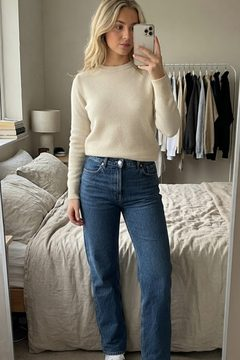
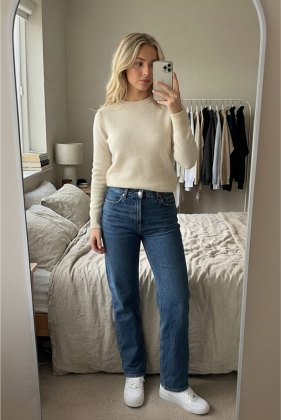
Virtual Stylist intro: one final design (Figma 15921-1329), layout options retired; Jake's example photo; catalogue + changelog

diff --git a/assets/ds/vs-intro.js b/assets/ds/vs-intro.js
@@ -1,66 +1,32 @@
-/* DG Group Design System — Virtual Stylist intro (2 Nov 2026, vto-prototype v2).
-   The launch modal for Virtual Stylist (virtual try-on), on the DS .mdl: How it works (.howto, three numbered steps) · Photo tips (.ptips, 2 × 2) ·
-   the 18+ consent row (DS checkbox .chk in .chk-row, centred on the copy, + .vs-legal; Camera / Upload need it ticked: unticked they show .vs-warn, as live) · Camera / Upload
-   (.bd pri .ic20 with the library glyphs, side by side, as v1) · the try-on note (.vs-note). Slide up (.mdl--up) on phones, centred .mdl--md from 600px; six start screen layouts (o.layout, below).
-     DG_vsIntro.html(o)   → the .mdl only (catalogue, Figma)       o = {fascia:'Debenhams', desk:bool, left:5|n, consent:bool, layout:'1'..'10' (default '6'), photo:url (layout 9 example, default assets/ds/img/vs-example.jpg)}
+/* DG Group Design System — Virtual Stylist intro (2 Nov 2026, vto-prototype v2; final design Jake 9 Nov, Figma LxHqA4rFpRYNWJu8vzn18X 15921-1329).
+   The launch modal for Virtual Stylist (virtual try-on), on the DS .mdl: Welcome to Virtual Stylist + one intro line (.vs-lede) · an example photo
+   (.vs-eg-img, 2:3, tilted 2deg) beside "For the best results..." and four icon tips (.vs-tips, plain text: never bordered or filled, so they don't read as buttons) ·
+   the 18+ consent row (DS checkbox .chk in .chk-row, centred on the copy, + .vs-legal; Camera / Upload need it ticked: unticked they show .vs-warn, as live) ·
+   Camera / Upload (.bd pri .ic20 with the library glyphs, side by side) · the try-on note (.vs-note). Slide up (.mdl--up) on phones, centred .mdl--md from 600px.
+     DG_vsIntro.html(o)   → the .mdl only (catalogue, Figma)       o = {fascia:'Debenhams', desk:bool, left:5|n, consent:bool, photo:url (default assets/ds/img/vs-example.jpg)}
      DG_vsIntro.layer(o)  → scrim + .mdl in a fixed .vs-layer (pages)
      DG_vsIntro.wire(root, {onCamera, onUpload, onClose, onConsent}) → binds the X, scrim, consent row and the two buttons
    Copy is instructional; no emojis, no em dashes. */
 (function(root){
   const esc=s=>String(s==null?'':s).replace(/[&<>"]/g,m=>({'&':'&amp;','<':'&lt;','>':'&gt;','"':'&quot;'}[m]));
-    /* button glyphs: DS library icons-camera / icons-image, inline so they take the label colour (.bd .ico) */
+  /* button glyphs: DS library icons-camera / icons-image, inline so they take the label colour (.bd .ico) */
   const CAM='<svg class="ico" viewBox="0 0 24 24" fill="none" aria-hidden="true"><g transform="translate(0.3572 2.9285)"><path d="M22.7857 5.64286C22.7857 5.18819 22.605 4.75217 22.2836 4.43067C21.9622 4.10919 21.5261 3.92857 21.0714 3.92857H17.6429L15.0714 0.5H8.21429L5.64286 3.92857H2.21429C1.75962 3.92857 1.32359 4.10919 1.0021 4.43067C0.680612 4.75217 0.5 5.18819 0.5 5.64286V15.9286C0.5 16.3832 0.680612 16.8193 1.0021 17.1407C1.32359 17.4622 1.75962 17.6429 2.21429 17.6429H21.0714C21.5261 17.6429 21.9622 17.4622 22.2836 17.1407C22.605 16.8193 22.7857 16.3832 22.7857 15.9286V5.64286Z" stroke-linecap="round" stroke-linejoin="round"/><path d="M11.6429 13.7857C13.7731 13.7857 15.5 12.0588 15.5 9.92857C15.5 7.79833 13.7731 6.07143 11.6429 6.07143C9.51262 6.07143 7.78571 7.79833 7.78571 9.92857C7.78571 12.0588 9.51262 13.7857 11.6429 13.7857Z" stroke-linecap="round" stroke-linejoin="round"/></g></svg>';
   const UPL='<svg class="ico" viewBox="0 0 24 24" fill="none" aria-hidden="true"><g transform="translate(2 2)"><rect x="0.5" y="0.5" width="19" height="19" rx="3.5" stroke="currentColor"/><path d="M15 19L5.38378 9.67506C4.99589 9.29892 4.37937 9.29892 3.99148 9.67506L1.43109 12.1579L0.588967 13" stroke="currentColor" stroke-linecap="round"/><circle cx="14.5" cy="5.5" r="2" stroke="currentColor"/></g></svg>';   /* Upload = icons-image (Jake's Figma 15874-1068) */
   const note=n=>(n==null||n>=5?'Max 5 try-ons per day.':n+' try-on'+(n===1?'':'s')+' left today.')+' Images are generated by AI';
-    /* start screen layouts (Jake's final six, Figma LxHqA4rFpRYNWJu8vzn18X 15898-33012, 3 Nov 2026): o.layout '1'..'6', default '6' (Jake, 3 Nov).
-     steps 'cards' = 2 × 2 numbered step cards (four steps) | 'timeline' = numbered timeline (three steps, title + line, glyph right) ·
-     tips 'cards' = 2 × 2 tiles | 'pills' = wrapping pills · align = section headings centred or left · welcome = title "Welcome to Virtual Stylist", no How it works heading.
-     Slide up (.mdl--up) on phones, hugging the content; centred .mdl--md from 600px; every line of copy 12/16 minimum. */
-  const LAYOUTS={
-    '1':{label:'Step cards + pills',steps:'cards',tips:'pills',align:'left'},
-    '2':{label:'Step cards + tip cards, centred',steps:'cards',tips:'cards',align:'centre'},
-    '3':{label:'Timeline + tip cards, centred',steps:'timeline',tips:'cards',align:'centre'},
-    '4':{label:'Timeline + tip cards',steps:'timeline',tips:'cards',align:'left'},
-    '5':{label:'Timeline + pills',steps:'timeline',tips:'pills',align:'left'},
-    '6':{label:'Welcome, timeline + pills',steps:'timeline',tips:'pills',align:'left',welcome:true},
-    /* short layouts (Jake, 9 Nov: the screen was too long and the pills looked tappable). One intro line or three one-line steps,
-       tips as plain text (a tick list or a single line): no borders, no fills, nothing that reads as a button. */
-    '7':{label:'Short: three steps + tip line',short:['steps','tip']},
-    '8':{label:'Short: intro + tick list',short:['lede','checks']},
-    '9':{label:'Short: intro + example photo',short:['lede','example']},
-    '10':{label:'Shortest: intro + tip line',short:['lede','tip']}};
-  /* short layout copy (ux-writing: front-loaded, sentence case, under 14 words a line) */
-  const LEDE='Add a full-length photo to see this on you.';
-  const STEPS3=['Add a full-length photo','We style you in this piece','Pick your size and add to bag'];
-  const TIPLINE='Get your whole body in shot. Mirror selfies work.';
-  const CHECKS=['Head to toe in shot','Plain background','Good light','Mirror selfies work'];
-  const CARDS=[['add-photo','Take or upload a photo'],['ai','We\u2019ll style you in your selected piece'],['hanger','Check and decide if it\u2019s right for you'],['quick-add','Pick your size and add to bag']];
-  const TL=[['add-photo','Add a photo','Take or upload any full length photo'],['ai','Check the look','We\u2019ll style you in your selected piece'],['quick-add','Add To Bag','Choose your size and add it to your bag']];
-  const TIP={light:['light','Use bright lighting'],dress:['dress','Use a full length photo'],plain:['plain','Use a plain background'],face:['face','Face the camera']};
-  const TIPS_ORDER={cards:['light','dress','plain','face'],pills:['plain','light','face','dress']};   /* as the Figma */
+  /* copy: Jake's Figma 15921-1329 */
+  const TITLE='Welcome to Virtual Stylist',LEDE='Take or upload a photo to see yourself in this product.',TIPS_H='For the best results...';
+  const TIPS=[['light','Use bright lighting'],['face','Face the camera'],['dress','Use a full length photo'],['mirror','Mirror selfies are OK!']];
   const vsi=i=>`<i class="vsi vsi--${i}" aria-hidden="true"></i>`;
-  const H=t=>`<h3 class="vs-sec-h">${t}</h3>`;
-  const stepsHTML=(k,head)=>`<section class="vs-sec">${head?H('How it works'):''}${k==='timeline'
-    ?`<ol class="vs-tl">${TL.map(([i,t,d],n)=>`<li><span class="n">${n+1}</span><div class="tx"><b>${t}</b><span>${d}</span></div>${vsi(i)}</li>`).join('')}</ol>`
-    :`<ol class="howto">${CARDS.map(([i,t],n)=>`<li><span class="n">${n+1}</span>${vsi(i)}<span>${t}</span></li>`).join('')}</ol>`}</section>`;
-  const tipsHTML=k=>`<section class="vs-sec">${H('For the best result')}<ul class="${k==='pills'?'vs-chips':'ptips'}">${TIPS_ORDER[k].map(t=>TIP[t]).map(([i,t])=>`<li>${vsi(i)}<span>${t}</span></li>`).join('')}</ul></section>`;
-  const TIPS=TIPS_ORDER.cards.map(t=>TIP[t]),STEPS=CARDS;
-  const checks=()=>`<ul class="vs-checks">${CHECKS.map(t=>`<li>${vsi('tick')}<span>${t}</span></li>`).join('')}</ul>`;
-  const SHORT={
-    lede:()=>`<p class="vs-lede">${LEDE}</p>`,
-    steps:()=>`<ol class="vs-steps">${STEPS3.map((t,n)=>`<li><span class="n">${n+1}</span><span>${t}</span></li>`).join('')}</ol>`,
-    tip:()=>`<p class="vs-tip">${vsi('light')}<span>${TIPLINE}</span></p>`,
-    checks:()=>`<section class="vs-sec">${H('For the best result')}${checks()}</section>`,
-    example:o=>`<div class="vs-eg"><div class="vs-eg-img" role="img" aria-label="Example: a full-length mirror selfie"${o.photo?` style="background-image:url('${esc(o.photo)}')"`:''}></div><div class="vs-sec">${H('For the best result')}${checks()}</div></div>`};
   const consentRow=o=>`<div class="chk-row vs-consent" data-vs-consent role="checkbox" aria-checked="${o.consent?'true':'false'}" tabindex="0">
           <button class="chk${o.consent?' on':''}" tabindex="-1" aria-hidden="true"></button>
           <p class="vs-legal">I'm 18 or over and consent to my photo being processed by ${esc(o.fascia||'Debenhams')} and its AI providers to create my virtual try-on. I accept the <a href="#" data-vs-link>Terms &amp; Conditions</a> and <a href="#" data-vs-link>Privacy Policy</a>.</p>
         </div><p class="vs-warn" data-vs-warn role="alert" hidden>Please tick the box above to continue</p>`;   /* live copy (debenhams.com, 3 Nov 2026) */
-  function html(o){o=o||{};const k=LAYOUTS[o.layout]?String(o.layout):'6',L=LAYOUTS[k];
-    const cls=L.short?'vs-intro--short vs-intro--left':`vs-intro--steps-${L.steps} vs-intro--tips-${L.tips} vs-intro--${L.align}${L.welcome?' vs-intro--welcome':''}`;
-    return `<div class="mdl ${o.desk?'mdl--md':'mdl--up'} vs-intro vs-intro--l${k} ${cls}" role="dialog" aria-modal="true" aria-labelledby="vs-intro-t">
-      <div class="modal-hd"><span class="mt" id="vs-intro-t">${L.welcome?'Welcome to Virtual Stylist':'Virtual Stylist'}</span><button class="modal-x" data-vs-close aria-label="Close"></button></div>
-      <div class="mdl-bd">${L.short?L.short.map(p=>SHORT[p](o)).join(''):stepsHTML(L.steps,!L.welcome)+tipsHTML(L.tips)}</div>
+  function html(o){o=o||{};
+    return `<div class="mdl ${o.desk?'mdl--md':'mdl--up'} vs-intro" role="dialog" aria-modal="true" aria-labelledby="vs-intro-t">
+      <div class="modal-hd"><span class="mt" id="vs-intro-t">${TITLE}</span><button class="modal-x" data-vs-close aria-label="Close"></button></div>
+      <div class="mdl-bd"><p class="vs-lede">${LEDE}</p>
+        <div class="vs-eg"><div class="vs-eg-img" role="img" aria-label="Example: a full-length mirror selfie"${o.photo?` style="background-image:url('${esc(o.photo)}')"`:''}></div>
+          <div class="vs-eg-tx"><h3 class="vs-eg-h">${TIPS_H}</h3><ul class="vs-tips">${TIPS.map(([i,t])=>`<li>${vsi(i)}<span>${t}</span></li>`).join('')}</ul></div></div></div>
       <div class="mdl-ft">${consentRow(o)}<div class="vs-ctas"><button class="bd pri ic20" data-vs-camera>${CAM}Camera</button><button class="bd pri ic20" data-vs-upload>${UPL}Upload</button></div><p class="vs-note" data-vs-note>${note(o.left)}</p></div>
     </div>`}
   const layer=o=>`<div class="vs-layer${o&&o.desk?'':' vs-layer--up'}" data-vs-intro><div class="mdl-scrim" data-vs-close></div>${html(o)}</div>`;
@@ -74,5 +40,5 @@
     const c=el.querySelector('[data-vs-camera]'),u=el.querySelector('[data-vs-upload]');
     const go=f=>()=>{if(!ok()){if(warn)warn.hidden=false;return}f&&f()};   /* as live: unticked, the buttons show the warning instead */
     if(c)c.onclick=go(h.onCamera);if(u)u.onclick=go(h.onUpload)}
-  root.DG_vsIntro={html,layer,wire,note,STEPS,TIPS,LAYOUTS};
+  root.DG_vsIntro={html,layer,wire,note,TIPS};
 })(typeof window!=='undefined'?window:globalThis);

diff --git a/assets/ds/components.css b/assets/ds/components.css
@@ -2169,60 +2169,23 @@ select.rf-input:invalid{color:var(--rf-dim)}
 .ratio-product>img{width:100%;height:100%;object-fit:cover;display:block}
 
 /* ---- Virtual Stylist intro (2 Nov 2026, vto-prototype v2; assets/ds/vs-intro.js): the launch modal on the DS .mdl in a .vs-layer (the delivery / S&S layer rules).
-   Spec: Jake's final six start screens, Figma LxHqA4rFpRYNWJu8vzn18X 15898-33012 (3 Nov 2026). Slide up (.vs-layer--up + .mdl--up, hugging the content) on phones,
-   centred .mdl--md from 600px. Header: title 20/25 strong + 16 close · body: How it works then For the best result, gap 8 (32px; 6, 24px, with a headed timeline) ·
-   footer gap 4 (16px): consent (.chk-row, box centred on the copy, gap 3 + .vs-legal 12/16 --text-primary, links --text-link strong, no underline) ·
-   Camera / Upload: two .bd pri .ic20 side by side (as v1; Jake 2 Nov) · .vs-note 12/16 grey.
-   How it works: .howto 2 × 2 step cards (four steps) or .vs-tl timeline (three) · tips: .ptips 2 × 2 tiles or .vs-chips pills · headings centred or --left.
-   Glyphs are DS library icons, masked so they take --icon-primary. Every line of copy 12/16 or larger. */
-.vs-intro .mdl-bd{gap:var(--gap-8,32px)}
-.vs-intro--steps-timeline:not(.vs-intro--welcome) .mdl-bd{gap:var(--gap-6,24px)}
+   Final design: Jake's Figma LxHqA4rFpRYNWJu8vzn18X 15921-1329 (9 Nov 2026). Slide up (.vs-layer--up + .mdl--up, hugging the content) on phones, centred .mdl--md from 600px.
+   Header: Welcome to Virtual Stylist 20/25 strong + 16 close · .vs-lede 14/20, 16 under the title · gap 6 (24px) · .vs-eg: example photo 94 wide 2:3, radius --radius-lg,
+   --shadow-pill, tilted 2deg | gap 6 | "For the best results..." 14/20 strong, gap 3, four tips (16 glyph, gap 2, 14/16 regular, gap 3 apart: plain text, never a pill or a tile) ·
+   gap 6 · footer gap 4 (16px): consent (.chk-row + .vs-legal 12/16, links --text-link strong) · Camera / Upload (.bd pri .ic20, side by side) · .vs-note 12/16 grey.
+   Glyphs are DS library icons, masked so they take --icon-primary. */
+.vs-intro .modal-hd{margin-bottom:calc(-1 * var(--gap-2,8px))}   /* title to intro line 16 */
+.vs-intro .mdl-bd{gap:var(--gap-6,24px);padding-bottom:12px;margin-bottom:-12px}   /* room for the photo shadow inside the scrolling body */
 .vs-intro .mdl-ft{gap:var(--gap-4,16px)}
-.vs-sec{display:flex;flex-direction:column;gap:var(--gap-3,12px)}
-.vs-sec-h{margin:0;font-family:var(--font-family-base);font-size:16px;line-height:20px;font-weight:var(--w-strong,600);color:var(--text-primary);text-align:center}
-.vs-intro--left .vs-sec-h{text-align:left}
-/* step cards: 2 × 2, the number straddling the top edge */
-.howto{display:grid;grid-template-columns:repeat(2,minmax(0,1fr));gap:var(--gap-6,24px) var(--gap-2,8px);list-style:none;margin:0;padding:var(--gap-3,12px) 0 0}
-.howto li{position:relative;display:flex;flex-direction:column;align-items:center;gap:var(--gap-2,8px);padding:28px var(--gap-4,16px) var(--gap-4,16px);border-radius:var(--radius-lg);background:var(--surface-sunken);text-align:center;font-size:14px;line-height:18px;font-weight:var(--w-regular);color:var(--text-primary)}
-.howto .n{position:absolute;top:-12px;left:50%;transform:translateX(-50%);width:24px;height:24px;border-radius:var(--radius-pill);background:var(--surface-action);color:var(--text-on-action);display:grid;place-items:center;font-size:12px;line-height:1;font-weight:var(--w-strong,600)}
-.howto .vsi{width:24px;height:24px}
-/* timeline: number on a line, title + line, glyph right */
-.vs-tl{list-style:none;margin:0;padding:0;display:flex;flex-direction:column}
-.vs-intro--welcome .vs-tl{margin:calc(-1 * var(--gap-3,12px)) 0}   /* no heading: the first and last rows sit flush */
-.vs-tl li{position:relative;display:flex;align-items:center;gap:var(--gap-4,16px);padding:var(--gap-3,12px) 0}
-.vs-tl li:not(:last-child)::after{content:"";position:absolute;left:12px;top:calc(50% + 16px);height:calc(100% - 32px);border-left:1px solid var(--border-default)}
-.vs-tl .n{width:24px;height:24px;flex:none;border-radius:var(--radius-pill);background:var(--surface-action);color:var(--text-on-action);display:grid;place-items:center;font-size:12px;line-height:1;font-weight:var(--w-strong,600)}
-.vs-tl .tx{flex:1;display:flex;flex-direction:column;gap:2px;min-width:0}
-.vs-tl b{font-size:14px;line-height:20px;font-weight:var(--w-strong,600);color:var(--text-primary)}
-.vs-tl .tx span{font-size:12px;line-height:16px;font-weight:var(--w-regular);color:var(--text-primary)}
-.vs-tl .vsi{width:24px;height:24px}
-/* tip tiles: 2 × 2 */
-.ptips{display:grid;grid-template-columns:repeat(2,minmax(0,1fr));gap:var(--gap-2,8px);list-style:none;margin:0;padding:0}
-.ptips li{display:flex;align-items:center;gap:var(--gap-3,12px);min-height:56px;box-sizing:border-box;padding:var(--gap-3,12px);border-radius:var(--radius-lg);background:var(--surface-sunken);font-size:12px;line-height:16px;font-weight:var(--w-regular);color:var(--text-primary)}
-.ptips .vsi{width:20px;height:20px}
-/* tip pills: wrapping, 1px --border-subtle */
-.vs-chips{list-style:none;margin:0;padding:0;display:flex;flex-wrap:wrap;justify-content:center;gap:var(--gap-2,8px) var(--gap-1,4px)}
-.vs-intro--left .vs-chips{justify-content:flex-start}
-.vs-chips li{display:flex;align-items:center;gap:var(--gap-2,8px);padding:var(--gap-2,8px) var(--gap-3,12px);border:1px solid var(--border-subtle);border-radius:var(--radius-pill);font-size:12px;line-height:16px;font-weight:var(--w-regular);color:var(--text-primary)}
-.vs-chips .vsi{width:16px;height:16px}
-.vsi{display:block;flex:none;background:var(--icon-primary);-webkit-mask:var(--ic) center/contain no-repeat;mask:var(--ic) center/contain no-repeat}
-.vsi--add-photo{--ic:url("icons/lib/icons-add-photo.svg")}.vsi--ai{--ic:url("icons/lib/icons-ai.svg")}.vsi--hanger{--ic:url("icons/lib/icons-hanger.svg")}.vsi--quick-add{--ic:url("icons/lib/icons-quick-add.svg")}
-.vsi--tick{--ic:url("icons/lib/icons-tick.svg")}
-/* short layouts 7-10 (9 Nov): one intro line or three one-line steps, tips as plain text. Nothing that reads as a button: no borders, no fills */
-.vs-intro--short .mdl-bd{gap:var(--gap-5,20px)}
 .vs-lede{margin:0;font-size:14px;line-height:20px;font-weight:var(--w-regular);color:var(--text-primary)}
-.vs-steps{list-style:none;margin:0;padding:0;display:flex;flex-direction:column;gap:var(--gap-3,12px)}
-.vs-steps li{display:flex;align-items:center;gap:var(--gap-3,12px);font-size:14px;line-height:20px;font-weight:var(--w-regular);color:var(--text-primary)}
-.vs-steps .n{width:24px;height:24px;flex:none;border-radius:var(--radius-pill);background:var(--surface-action);color:var(--text-on-action);display:grid;place-items:center;font-size:12px;line-height:1;font-weight:var(--w-strong,600)}
-.vs-tip{margin:0;display:flex;align-items:flex-start;gap:var(--gap-2,8px);font-size:12px;line-height:16px;font-weight:var(--w-regular);color:var(--text-secondary)}
-.vs-tip .vsi{width:16px;height:16px;background:var(--text-secondary)}
-.vs-checks{list-style:none;margin:0;padding:0;display:grid;grid-template-columns:repeat(2,minmax(0,1fr));gap:var(--gap-2,8px) var(--gap-4,16px)}
-.vs-checks li{display:flex;align-items:center;gap:var(--gap-2,8px);font-size:14px;line-height:20px;font-weight:var(--w-regular);color:var(--text-primary)}
-.vs-checks .vsi{width:16px;height:16px}
-.vs-eg{display:flex;align-items:center;gap:var(--gap-4,16px)}
-.vs-eg-img{width:80px;aspect-ratio:2/3;flex:none;border-radius:var(--radius-lg);background:var(--surface-media,var(--surface-sunken)) url("img/vs-example.jpg") center/cover no-repeat}
-.vs-eg .vs-sec{flex:1;min-width:0}.vs-eg .vs-checks{grid-template-columns:1fr}
-.vsi--light{--ic:url("icons/lib/icons-light-bulb.svg")}.vsi--dress{--ic:url("icons/lib/icons-dress.svg")}.vsi--face{--ic:url("icons/lib/icons-account.svg")}.vsi--plain{--ic:url("icons/lib/icons-image.svg")}
+.vs-eg{display:flex;align-items:center;gap:28px}   /* Figma 23 from the tilted photo’s bounding box */
+.vs-eg-img{height:140px;aspect-ratio:2/3;flex:none;border-radius:var(--radius-lg);box-shadow:var(--shadow-pill);transform:rotate(-2deg);background:var(--surface-media,#F2F2F2) url("img/vs-example.jpg") center/cover no-repeat}
+.vs-eg-tx{flex:1;min-width:0;display:flex;flex-direction:column;gap:var(--gap-3,12px);padding-bottom:var(--gap-1,4px)}
+.vs-eg-h{margin:0;font-family:var(--font-family-base);font-size:14px;line-height:20px;font-weight:var(--w-strong,600);color:var(--text-primary)}
+.vs-tips{list-style:none;margin:0;padding:0;display:flex;flex-direction:column;gap:var(--gap-3,12px)}
+.vs-tips li{display:flex;align-items:center;gap:var(--gap-2,8px);font-size:14px;line-height:16px;font-weight:var(--w-regular);color:var(--text-primary)}
+.vsi{display:block;flex:none;width:16px;height:16px;background:var(--icon-primary);-webkit-mask:var(--ic) center/contain no-repeat;mask:var(--ic) center/contain no-repeat}
+.vsi--light{--ic:url("icons/lib/icons-light-bulb.svg")}.vsi--face{--ic:url("icons/lib/icons-account.svg")}.vsi--dress{--ic:url("icons/lib/icons-dress.svg")}.vsi--mirror{--ic:url("icons/lib/icons-app.svg")}
 .vs-consent{gap:var(--gap-3,12px);cursor:pointer;-webkit-tap-highlight-color:transparent}   /* the whole row toggles; only the links are exempt */
 .vs-legal{margin:0;flex:1;font-size:12px;line-height:16px;font-weight:var(--w-regular);color:var(--text-primary)}
 .vs-legal a{color:var(--text-link);font-weight:var(--w-strong,600);text-decoration:none}

diff --git a/assets/ds/catalogue.js b/assets/ds/catalogue.js
@@ -876,15 +876,15 @@ const DG_CATALOGUE = [
   ],
   dev:{title:'—', status:'ours', note:'Google Cloud Shopping Agent widget; styling delivered as salesAgentConfig.json (projects/shopping-agent HANDOFF.md section 3 maps each part to its key).'} },
 
-{ slug:'vs-intro', name:'Virtual Stylist intro', group:'AI', tier:'organism', css:'.vs-layer · .vs-intro on the DS .mdl · .howto · .vs-tl · .ptips · .vs-chips · .vsi · .vs-consent + .vs-legal · .vs-ctas · .vs-note (+ assets/ds/vs-intro.js)', figma:'LxHqA4rFpRYNWJu8vzn18X · start screen layouts 15898-33012 (Jake, 3 Nov: the six final options)',
-  summary:'The Virtual Stylist (virtual try-on) start screen: how it works, photo tips, the 18+ consent row, then Camera / Upload and the daily try-on note. Slide up on phones, hugging the content; centred from 600px. Six layouts (o.layout 1 to 6): step cards or a timeline, tip cards or pills, headings centred or left, and a Welcome version.',
-  use:['Drop-in: load assets/ds/vs-intro.js; DG_vsIntro.layer({fascia,desk:innerWidth>=600,left,consent,layout}) into the body, then DG_vsIntro.wire(el,{onCamera,onUpload,onClose,onConsent}).','Opened by the PDP Virtual Stylist chip (AI pill, .ai-pill--tag). Slide up (.vs-layer--up + .mdl--up) on phones: the sheet hugs its content and the body scrolls if it runs out of height; centred .mdl--md from 600px.','Layouts (DG_vsIntro.LAYOUTS): 1 step cards + pills · 2 step cards + tip cards, centred · 3 timeline + tip cards, centred · 4 timeline + tip cards · 5 timeline + pills · 6 Welcome to Virtual Stylist, timeline (no heading) + pills: the default (Jake, 3 Nov). Short (9 Nov: the screen was too long, the pills looked tappable): 7 three one-line steps + tip line · 8 intro + tick list · 9 intro + example photo beside the tick list · 10 intro + tip line.','Consent: the whole row toggles (links excepted). Camera / Upload need it ticked: tapped unticked, they show .vs-warn (Please tick the box above to continue) and do nothing, as live (debenhams.com, 3 Nov 2026).'],
-  avoid:['Stacking Camera and Upload: they sit side by side, both filled, as the live journey (Jake, 2 Nov: an agreed exception to one primary per view).','Marketing copy in the steps or tips: they are instructions.','Copy under 12/16 (the T&Cs size): Jake, 3 Nov 2026.','Naming the AI provider or a model in the legal copy: the fascia and its AI providers.'],
-  anatomy:['Modal header: title 20/25 strong (Virtual Stylist, or Welcome to Virtual Stylist on layout 6) + 16px close · body gap 8 (32px), gap 6 (24px) with a headed timeline · footer gap 4 (16px)','Section heading .vs-sec-h 16/20 strong, centred or left (.vs-intro--left) · gap 3 (12px) to its content','Step cards .howto: 2 × 2, gap 6 (24px) rows (clears the number) / 2 (8px) columns · card --surface-sunken, radius --radius-lg, padding 28 / 16 / 16 · number 24px --surface-action / --text-on-action straddling the top edge · glyph 24 · copy 14/18 regular, centred · four steps: add-photo, ai, hanger, quick-add','Timeline .vs-tl: rows padding gap 3 (12px), gap 4 (16px) · number 24px on a 1px --border-default line · title 14/20 strong + line 12/16 regular · glyph 24 right · three steps: add-photo, ai, quick-add','Tip tiles .ptips: 2 × 2, gap 2 (8px) · tile --surface-sunken, radius --radius-lg, padding gap 3, 56 tall · glyph 20, gap 3 to copy 12/16','Tip pills .vs-chips: wrapping, gap 2 (8px) rows / 1 (4px) between · 1px --border-subtle, --radius-pill, padding 8 / 12 · glyph 16, gap 2 to copy 12/16','Consent .chk-row: DS checkbox centred on the copy, gap 3 (12px) + .vs-legal 12/16 --text-primary, links --text-link in --w-strong, no underline · .vs-warn 12/16 --text-error under the copy','Short layouts (.vs-intro--short, body gap 5, 20px): .vs-lede 14/20 · .vs-steps one-line rows (24px number, gap 3, 14/20) · .vs-tip light-bulb 16 + 12/16 grey · .vs-checks tick 16 + 14/20, 2 columns (1 beside the photo) · .vs-eg 80px 2:3 example photo (assets/ds/img/vs-example.jpg or o.photo), radius --radius-lg. Tips never get a border or fill: they are not buttons.','Footer: Camera / Upload, two .bd pri .ic20 side by side at every width, equal halves, gap 2 (8px) · .vs-note 12/16 grey, centred'],
+{ slug:'vs-intro', name:'Virtual Stylist intro', group:'AI', tier:'organism', css:'.vs-layer · .vs-intro on the DS .mdl · .vs-lede · .vs-eg (.vs-eg-img, .vs-eg-tx, .vs-eg-h) · .vs-tips · .vsi · .vs-consent + .vs-legal + .vs-warn · .vs-ctas · .vs-note (+ assets/ds/vs-intro.js)', figma:'LxHqA4rFpRYNWJu8vzn18X · final intro 15921-1329 (Jake, 9 Nov)',
+  summary:'The Virtual Stylist (virtual try-on) start screen: a welcome line, an example photo beside four photo tips, the 18+ consent row, then Camera / Upload and the daily try-on note. Slide up on phones, hugging the content; centred from 600px.',
+  use:['Drop-in: load assets/ds/vs-intro.js; DG_vsIntro.layer({fascia,desk:innerWidth>=600,left,consent,photo}) into the body, then DG_vsIntro.wire(el,{onCamera,onUpload,onClose,onConsent}).','Opened by the PDP Virtual Stylist chip (AI pill, .ai-pill--tag). Slide up (.vs-layer--up + .mdl--up) on phones: the sheet hugs its content and the body scrolls if it runs out of height; centred .mdl--md from 600px.','Consent: the whole row toggles (links excepted). Camera / Upload need it ticked: tapped unticked, they show .vs-warn (Please tick the box above to continue) and do nothing, as live (debenhams.com, 3 Nov 2026).'],
+  avoid:['Tips as pills, chips or tiles: they read as buttons (Jake, 9 Nov). Plain icon + text only.','A long screen: one intro line and the example, nothing more (Jake, 9 Nov: over baked).','Stacking Camera and Upload: they sit side by side, both filled, as the live journey (an agreed exception to one primary per view).','Copy under 12/16 (the T&Cs size).','Naming the AI provider or a model in the legal copy: the fascia and its AI providers.'],
+  anatomy:['Modal header: Welcome to Virtual Stylist 20/25 strong + 16px close · .vs-lede 14/20 regular, 16 under the title','Example (.vs-eg, gap 6, 24px): photo 94 wide 2:3 (assets/ds/img/vs-example.jpg or o.photo), radius --radius-lg, --shadow-pill, tilted 2deg · tips column: For the best results... 14/20 strong, gap 3 (12px), four tips (16px glyph, gap 2, 8px, 14/16 regular, gap 3 apart): light-bulb Use bright lighting · account Face the camera · dress Use a full length photo · app Mirror selfies are OK!','Body to footer gap 6 (24px) · footer gap 4 (16px)','Consent .chk-row: DS checkbox centred on the copy, gap 3 (12px) + .vs-legal 12/16 --text-primary, links --text-link in --w-strong, no underline · .vs-warn 12/16 --text-error under the copy','Footer: Camera / Upload, two .bd pri .ic20 side by side at every width, equal halves, gap 2 (8px) · .vs-note 12/16 grey, centred'],
   variants:(()=>{const D=root.DG_vsIntro||(typeof require!=='undefined'?(require('./vs-intro.js'),globalThis.DG_vsIntro):null);if(!D)return [];
     const m=o=>D.html(o).replace('<div class="mdl ','<div style="width:'+(o.desk?720:390)+'px;max-width:100%" class="mdl ');
-    return Object.keys(D.LAYOUTS).map(k=>({name:k+' · '+D.LAYOUTS[k].label+' · mobile', html:m({fascia:'Debenhams',layout:k})})).concat([{name:'1 · consent ticked, 3 left', html:m({fascia:'Debenhams',consent:true,left:3,layout:'1'})},{name:'1 · Camera tapped unticked (warning)', html:m({fascia:'Debenhams',layout:'1'}).replace(' role="alert" hidden>',' role="alert">')},{name:'5 · desktop (centred, medium)', html:m({fascia:'Debenhams',desk:true,layout:'5'})}])})(),
-  dev:{title:'—', status:'new', note:'Added 2 Nov 2026 for Virtual Stylist v2 (vto-prototype/v2): replaces the Add a Photo sheet. Layouts 1 to 6 under review (Jake, 3 Nov).'} },
+    return [{name:'Mobile (Figma 15921-1329)', html:m({fascia:'Debenhams'})},{name:'Consent ticked, 3 left', html:m({fascia:'Debenhams',consent:true,left:3})},{name:'Camera tapped unticked (warning)', html:m({fascia:'Debenhams'}).replace(' role="alert" hidden>',' role="alert">')},{name:'Desktop (centred, medium)', html:m({fascia:'Debenhams',desk:true})}]})(),
+  dev:{title:'—', status:'new', note:'Added 2 Nov 2026 for Virtual Stylist v2 (vto-prototype/v2): replaces the Add a Photo sheet. Final design 9 Nov (Figma 15921-1329); the earlier layout options are retired.'} },
 
 { slug:'ai-modules', name:'AI modules', group:'AI', tier:'molecule', css:'.ai-nba · .ai-cp (--ai-cp-bg / --ai-cp-fg)', figma:'—',
   summary:'Agent prompts placed in content: next best action on the PLP (below the filters or a full-width grid row) and the content prompts module (image + prompts, CMS colour).',

diff --git a/assets/ds/changelog.js b/assets/ds/changelog.js
@@ -5,7 +5,7 @@ window.DG_CHANGELOG=[
  {
   "d": "2026-11-09",
   "v": "2026.11.09",
-  "title": "Virtual Stylist intro: four short start screen layouts (7 to 10)",
+  "title": "Virtual Stylist intro: final design (Figma 15921-1329) · top toast to Figma 5146-559 + toast.js",
   "by": "Virtual Stylist v2 (vto-prototype/v2, Jake 9 Nov: too long, pills look tappable)",
   "added": [
    "Rail card info levels (DG_pcarHTML o.info): full (default) · noswatch · clean (name on one line + price, no brand, no swatches) · price (image + price only); Sponsored stays on every level · by Product carousel prototype, Jake 9 Nov",
@@ -13,6 +13,7 @@ window.DG_CHANGELOG=[
    "Virtual Stylist intro layouts 7 to 10 (.vs-intro--short): 7 three one-line steps (.vs-steps) + tip line (.vs-tip) · 8 intro line (.vs-lede) + tick list (.vs-checks) · 9 intro + example photo (.vs-eg, new asset assets/ds/img/vs-example.jpg, o.photo override) beside the tick list · 10 intro + tip line. Tips are plain text with no border or fill, so they don't read as buttons; copy written to the ux-writing skill (front-loaded, sentence case, short lines); new glyph .vsi--tick · by Virtual Stylist v2, Jake 9 Nov"
   ],
   "changed": [
+   "Virtual Stylist intro: one final design (Jake’s Figma 15921-1329) replaces layouts 1 to 10: Welcome to Virtual Stylist + Take or upload a photo to see yourself in this product, an example photo (94 wide, 2:3, tilted 2deg, --shadow-pill) beside For the best results... and four plain icon tips (Use bright lighting, Face the camera, Use a full length photo, Mirror selfies are OK!; new glyph .vsi--mirror = icons-app). Retired: o.layout / DG_vsIntro.LAYOUTS, .howto, .vs-tl, .ptips, .vs-chips, .vs-steps, .vs-tip, .vs-checks, .vs-sec / .vs-sec-h · by Virtual Stylist v2, Jake 9 Nov",
    "Rail card text levels match Jake's Figma review variants (13939:19737 … 13939:26225): Brand + name · Name (2 lines) · Brand - Name and Brand Name (brand strong, one run) · Price only; swatches on / off separately (o.swatches); qaShape square / round on any fascia · Product carousel prototype: Added to Bag scenarios with real debenhams.com products (projects/product-carousel/recs.js, images 2:3) — Complete The Look (outfit pieces), You May Also Like (similar dresses), Frequently Bought Together (the bag holds Prada Paradoxe), Little Extras Under £10 (the till); cards / list / bundle, card size small / large, image gap 4px / none · by Product carousel prototype, Jake 9 Nov",
    "Top toast (.toast--top) to the DS Figma Toast 5146-559 exactly: message 14/18, action 13.33 strong in --text-link, 16 gap to a new 12px close (.toast-x), inside .toast-end; centred 400 wide on desktop. New drop-in assets/ds/toast.js (DG_toast / DG_toastTop): the toast sits under the USP banners (--toast-top) and follows the sticky black bar when the page scrolls · by Virtual Stylist v2, Jake 9 Nov",
    "Product carousel prototype: Added to Bag versions are now Live · Complete the look · Frequently bought together (cards — carousel or 1–3 row grid —, a list, or the DS bundle); Save your bag, Save for later and both toasts removed; a Cards setting (Full · No swatches · Clean · Price only) drives every rail on every screen · by Product carousel prototype, Jake 9 Nov",]
